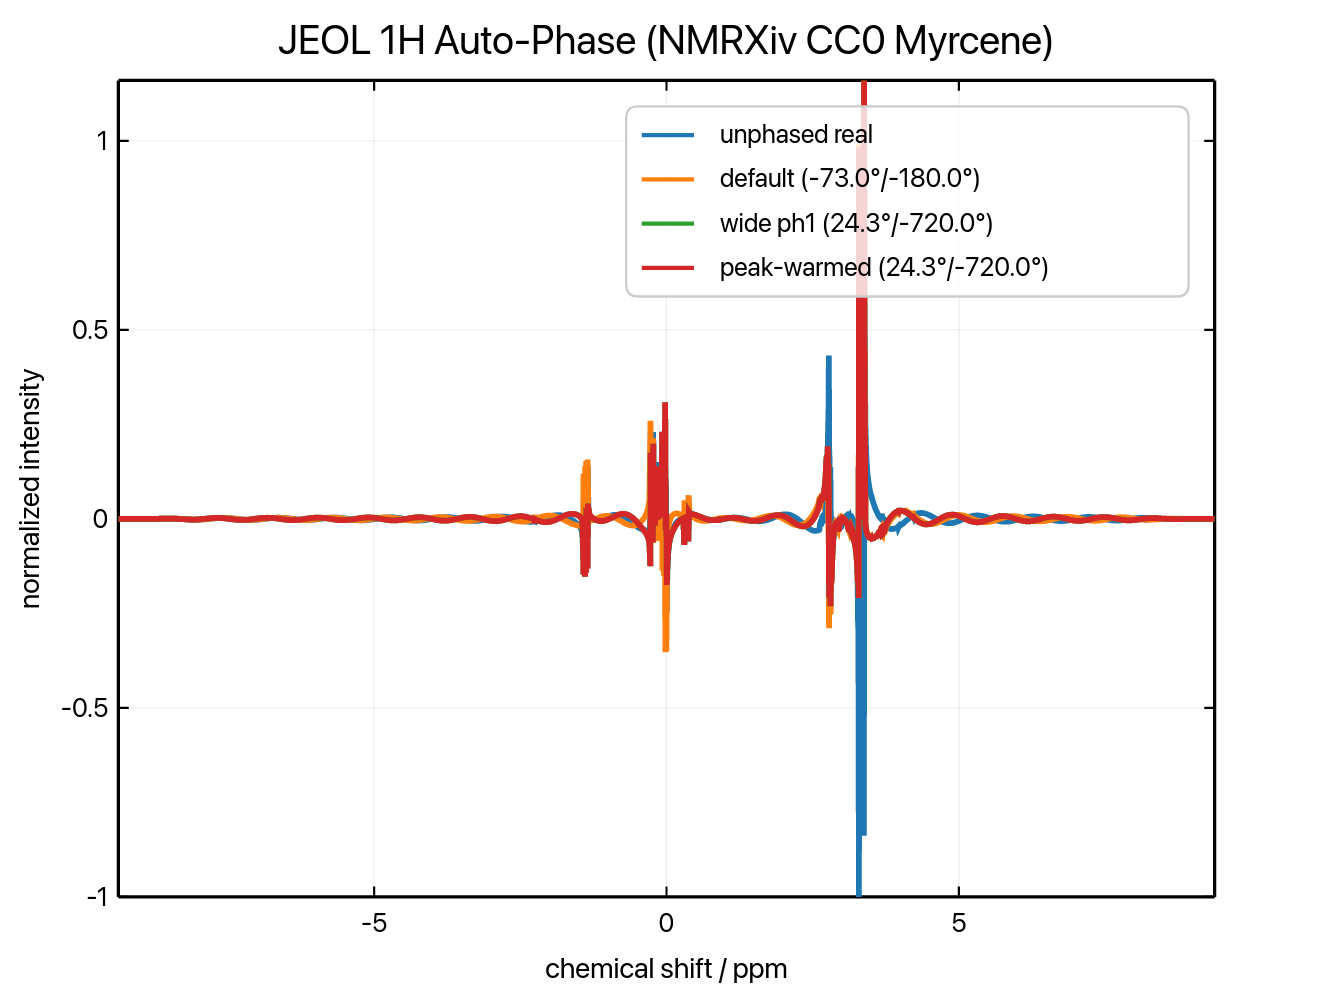
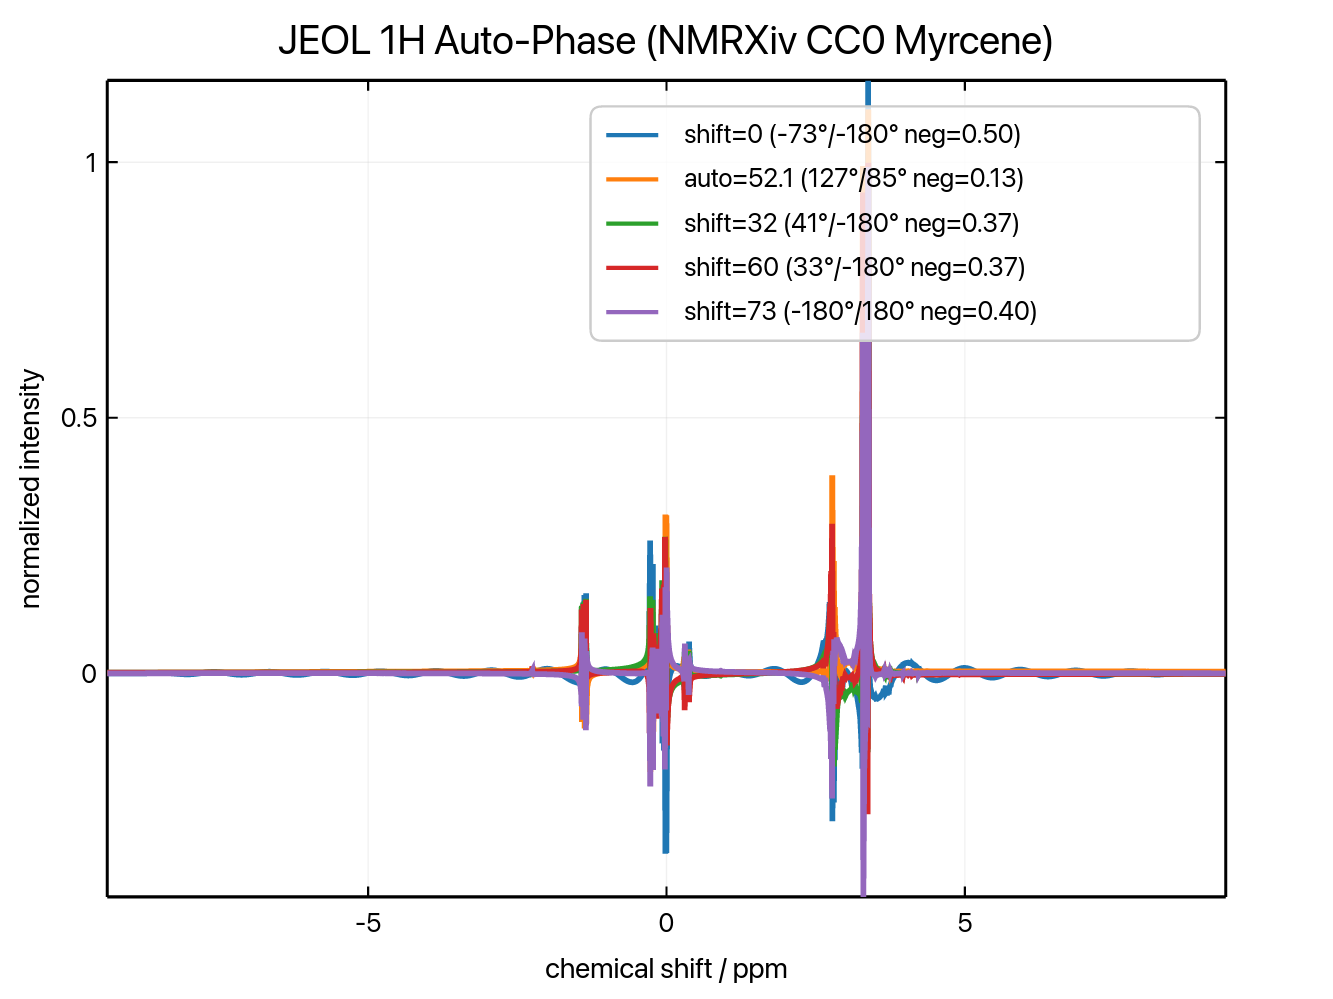
feat(processing): remove_group_delay step for digital-filter shift
Add remove_group_delay(spectrum, samples) that circularly left-shifts
a complex FID by an integer number of samples, the standard way to
strip an instrument's digital-filter group delay before FFT. Two
regression tests cover the rotation and the non-finite/negative
guards.

Extend the JEOL auto-phase comparison PNGs into a five-trace sweep
(shift=0, auto from acqu2s parameters, plus 32/60/73 samples). Each
trace is labeled with the auto-phase result and the negative-area
fraction so the cleanest shift is visible at a glance.

The auto-derived shift uses decimation_reg / filter_factor from the
parsed JEOL parameter table. On Myrcene 1H this lands at 52.1 samples
and unblocks ACME: ph1 escapes the +/-180 boundary (lands at +85),
negative fraction drops from 0.50 to 0.13. Rutin 1H also escapes the
boundary (39.0 samples -> ph1=+116, neg=0.37 vs 0.50 unshifted).
Myrcene 13C still pins at the boundary (12.4 samples is not the
correct delay for that experiment); investigate which JEOL field
encodes the 13C group delay as a follow-up.

Changed region(s): [[0.0308, 0.0621, 0.9227, 0.8999], [0.7074, 0.8999, 0.7382, 0.9309], [0.2768, 0.8999, 0.3076, 0.9309]]

diff --git a/examples/ruviz-processing/src/main.rs b/examples/ruviz-processing/src/main.rs
@@ -34,6 +34,7 @@ mod ruviz_example {
     use rspin_processing::{
         AutoPhaseCost, AutoPhaseOptions, BaselineMethod, FftDirection, ProcessSpectrum2D,
         ProcessingRecipe1D, auto_phase_correct, auto_phase_correct_with_peaks, fit_baseline,
+        remove_group_delay,
     };
     use ruviz::prelude::{IntoPlot, LegendPosition, Plot};
     use ruviz::core::subplot::subplots;
@@ -199,68 +200,106 @@ mod ruviz_example {
                 );
                 continue;
             }
-            let unphased = if spectrum.x.unit == Unit::Seconds {
-                let target_len = spectrum
-                    .len()
-                    .checked_mul(2)
-                    .context("JEOL auto-phase target length overflow")?;
-                let recipe = ProcessingRecipe1D::new()
-                    .exponential_apodization(1.0, dwell_time_seconds(spectrum)?)
-                    .zero_fill(target_len)
-                    .fft(FftDirection::Forward)
-                    .normalize_max_abs();
-                recipe.apply(spectrum)?
-            } else {
-                ProcessingRecipe1D::new()
-                    .normalize_max_abs()
-                    .apply(spectrum)?
-            };
-            let unphased = relabel_hz_to_ppm(unphased);
-            let default_opts = AutoPhaseOptions::default();
-            let wide_opts = AutoPhaseOptions::default()
-                .first_order_range(-720.0, 720.0, 45.0);
-            let phased_default = auto_phase_correct(&unphased, default_opts)?;
-            let phased_wide = auto_phase_correct(&unphased, wide_opts)?;
-            let peak_centers = detect_peak_centers(&unphased)?;
-            let phased_peak = auto_phase_correct_with_peaks(
-                &unphased,
-                AutoPhaseOptions::default().first_order_range(-720.0, 720.0, 45.0),
-                &peak_centers,
-            )?;
-
-            let fmt = |stem: &str, r: &rspin_processing::AutoPhaseResult| {
-                format!(
-                    "{stem} ({:.1}\u{00B0}/{:.1}\u{00B0})",
-                    r.zero_order_deg, r.first_order_deg
-                )
-            };
-
+            let auto = jeol_group_delay(spectrum);
+            let shift_candidates: [f64; 5] = [0.0, auto, 32.0, 60.0, 73.0];
+            let mut traces: Vec<(Vec<f64>, Vec<f64>, String)> = Vec::new();
+            for &candidate in &shift_candidates {
+                let (_unphased, phased) = jeol_phase_with_shift(spectrum, candidate)?;
+                let neg = negative_fraction(&phased.spectrum.intensities);
+                let tag = if (candidate - auto).abs() < 0.5 && auto > 0.0 {
+                    format!("auto={candidate:.1}")
+                } else {
+                    format!("shift={candidate:.0}")
+                };
+                let label = format!(
+                    "{tag} ({:.0}\u{00B0}/{:.0}\u{00B0} neg={:.2})",
+                    phased.zero_order_deg, phased.first_order_deg, neg
+                );
+                traces.push((
+                    phased.spectrum.x.values.clone(),
+                    phased.spectrum.intensities.clone(),
+                    label,
+                ));
+            }
             Plot::new()
                 .title(*title)
-                .xlabel(axis_label(unphased.x.unit))
+                .xlabel("chemical shift / ppm")
                 .ylabel("normalized intensity")
                 .max_resolution(1600, 1000)
                 .legend_position(LegendPosition::Best)
-                .line(&unphased.x.values, &unphased.intensities)
-                .label("unphased real")
-                .line(
-                    &phased_default.spectrum.x.values,
-                    &phased_default.spectrum.intensities,
-                )
-                .label(&fmt("default", &phased_default))
-                .line(
-                    &phased_wide.spectrum.x.values,
-                    &phased_wide.spectrum.intensities,
-                )
-                .label(&fmt("wide ph1", &phased_wide))
-                .line(
-                    &phased_peak.spectrum.x.values,
-                    &phased_peak.spectrum.intensities,
-                )
-                .label(&fmt("peak-warmed", &phased_peak))
+                .line(&traces[0].0, &traces[0].1)
+                .label(&traces[0].2)
+                .line(&traces[1].0, &traces[1].1)
+                .label(&traces[1].2)
+                .line(&traces[2].0, &traces[2].1)
+                .label(&traces[2].2)
+                .line(&traces[3].0, &traces[3].1)
+                .label(&traces[3].2)
+                .line(&traces[4].0, &traces[4].1)
+                .label(&traces[4].2)
                 .save(path_to_str(&output_dir.join(format!("{stem}.png")))?)?;
         }
         Ok(())
+    }
+
+    fn negative_fraction(values: &[f64]) -> f64 {
+        let neg: f64 = values
+            .iter()
+            .map(|v| if *v < 0.0 { v.abs() } else { 0.0 })
+            .sum();
+        let total: f64 = values.iter().map(|v| v.abs()).sum();
+        if total <= 0.0 { 0.0 } else { neg / total }
+    }
+
+    fn jeol_phase_with_shift(
+        spectrum: &Spectrum1D,
+        shift_samples: f64,
+    ) -> Result<(Spectrum1D, rspin_processing::AutoPhaseResult)> {
+        let shifted = if shift_samples > 0.0 {
+            remove_group_delay(spectrum, shift_samples)?
+        } else {
+            spectrum.clone()
+        };
+        let unphased = if shifted.x.unit == Unit::Seconds {
+            let target_len = shifted
+                .len()
+                .checked_mul(2)
+                .context("JEOL auto-phase target length overflow")?;
+            ProcessingRecipe1D::new()
+                .exponential_apodization(1.0, dwell_time_seconds(&shifted)?)
+                .zero_fill(target_len)
+                .fft(FftDirection::Forward)
+                .normalize_max_abs()
+                .apply(&shifted)?
+        } else {
+            ProcessingRecipe1D::new()
+                .normalize_max_abs()
+                .apply(&shifted)?
+        };
+        let unphased = relabel_hz_to_ppm(unphased);
+        let phased = auto_phase_correct(&unphased, AutoPhaseOptions::default())?;
+        Ok((unphased, phased))
+    }
+
+    fn jeol_group_delay(spectrum: &Spectrum1D) -> f64 {
+        let props = &spectrum.metadata.properties;
+        let factor = props
+            .get("jeol.parameter.filter_factor")
+            .and_then(|v| v.parse::<f64>().ok());
+        let decim_raw = props
+            .get("jeol.parameter.decimation_reg")
+            .and_then(|v| parse_decimation_reg(v));
+        match (decim_raw, factor) {
+            (Some(raw), Some(f)) if f > 0.0 => raw / f,
+            _ => 0.0,
+        }
+    }
+
+    fn parse_decimation_reg(raw: &str) -> Option<f64> {
+        let trimmed = raw.trim();
+        let after = trimmed.strip_prefix("r:")?.trim_start();
+        let first_token = after.split(|c: char| !c.is_ascii_digit()).next()?;
+        first_token.parse::<f64>().ok()
     }
 
     fn write_auto_phase_peak_zoom_plot(output_dir: &Path, raw: &Spectrum1D) -> Result<()> {

diff --git a/crates/rspin-processing/src/transform.rs b/crates/rspin-processing/src/transform.rs
@@ -425,6 +425,59 @@ pub fn fft_1d(spectrum: &Spectrum1D, direction: FftDirection) -> Result<Spectrum
     ))
 }
 
+/// Removes a digital-filter group delay from a time-domain spectrum.
+///
+/// Circularly shifts the FID samples left by `samples.trunc()` (so the
+/// early "pre-acquisition" points wrap to the end of the FID) and records
+/// the operation. The fractional part of `samples` is meant to be applied
+/// downstream as a frequency-domain linear phase
+/// `exp(-2*pi*frac*k/N)` after FFT; this function only handles the
+/// integer shift so the inverse `restore_group_delay` is a clean rotation.
+///
+/// `samples` must be finite and non-negative.
+///
+/// # Errors
+///
+/// Returns an error when `samples` is non-finite or negative.
+pub fn remove_group_delay(spectrum: &Spectrum1D, samples: f64) -> Result<Spectrum1D> {
+    if !samples.is_finite() {
+        return Err(RSpinError::NonFinite {
+            field: "group_delay_samples",
+        });
+    }
+    if samples < 0.0 {
+        return Err(RSpinError::InvalidSpectrum {
+            message: "group delay samples must be non-negative".to_owned(),
+        });
+    }
+    let mut processed = spectrum.clone();
+    let len = processed.intensities.len();
+    if len == 0 {
+        return Ok(processed);
+    }
+    let mut integer_shift = 0_usize;
+    let truncated = samples.trunc();
+    if truncated > 0.0 {
+        let mut counter = 0.0_f64;
+        for _ in 0..len {
+            if counter >= truncated {
+                break;
+            }
+            counter += 1.0;
+            integer_shift += 1;
+        }
+    }
+    if integer_shift > 0 {
+        processed.intensities.rotate_left(integer_shift);
+        if let Some(imag) = processed.imaginary.as_mut() {
+            imag.rotate_left(integer_shift);
+        }
+    }
+    Ok(processed.with_processing_record(
+        ProcessingRecord::new("remove_group_delay").with_details(format!("samples={samples}")),
+    ))
+}
+
 pub(crate) fn fftshift_in_place<T: Copy>(buffer: &mut [T]) {
     let n = buffer.len();
     if n < 2 {

diff --git a/crates/rspin-processing/src/transform/tests.rs b/crates/rspin-processing/src/transform/tests.rs
@@ -5,6 +5,39 @@ use rspin_core::{Axis, Metadata, RSpinError, Spectrum1D, Unit};
 use super::*;
 
 #[test]
+fn remove_group_delay_rotates_leading_samples() -> anyhow::Result<()> {
+    let axis = Axis::linear("time", Unit::Seconds, 0.0, 4.0, 5)?;
+    let spectrum = Spectrum1D::new_complex(
+        axis,
+        vec![10.0, 20.0, 30.0, 40.0, 50.0],
+        Some(vec![1.0, 2.0, 3.0, 4.0, 5.0]),
+        Metadata::default(),
+    )?;
+    let shifted = remove_group_delay(&spectrum, 2.0)?;
+    assert_eq!(shifted.intensities, vec![30.0, 40.0, 50.0, 10.0, 20.0]);
+    assert_eq!(shifted.imaginary, Some(vec![3.0, 4.0, 5.0, 1.0, 2.0]));
+    assert_eq!(
+        shifted.processing.last().map(|r| r.operation.as_str()),
+        Some("remove_group_delay")
+    );
+    Ok(())
+}
+
+#[test]
+fn remove_group_delay_rejects_invalid_input() -> anyhow::Result<()> {
+    let axis = Axis::linear("time", Unit::Seconds, 0.0, 1.0, 2)?;
+    let spectrum = Spectrum1D::new_complex(
+        axis,
+        vec![1.0, 2.0],
+        Some(vec![0.0, 0.0]),
+        Metadata::default(),
+    )?;
+    assert!(remove_group_delay(&spectrum, -1.0).is_err());
+    assert!(remove_group_delay(&spectrum, f64::NAN).is_err());
+    Ok(())
+}
+
+#[test]
 fn apodization_decays_real_and_imaginary_channels() -> anyhow::Result<()> {
     let spectrum = complex_spectrum()?;
     let processed = exponential_apodization(&spectrum, 1.0, 0.1)?;

diff --git a/crates/rspin-processing/src/lib.rs b/crates/rspin-processing/src/lib.rs
@@ -63,6 +63,7 @@ pub use recipe_2d::{
 pub use resample_1d::{Resample1D, resample_1d};
 pub use resample_2d::{Resample2D, resample_2d};
 pub use traits::ProcessingStep;
+pub use transform::remove_group_delay;
 pub use transform::{
     ExponentialApodization, Fft1D, FftDirection, GaussianApodization, Magnitude, PhaseCorrection,
     SineBellApodization, exponential_apodization, fft_1d, gaussian_apodization, magnitude_spectrum,